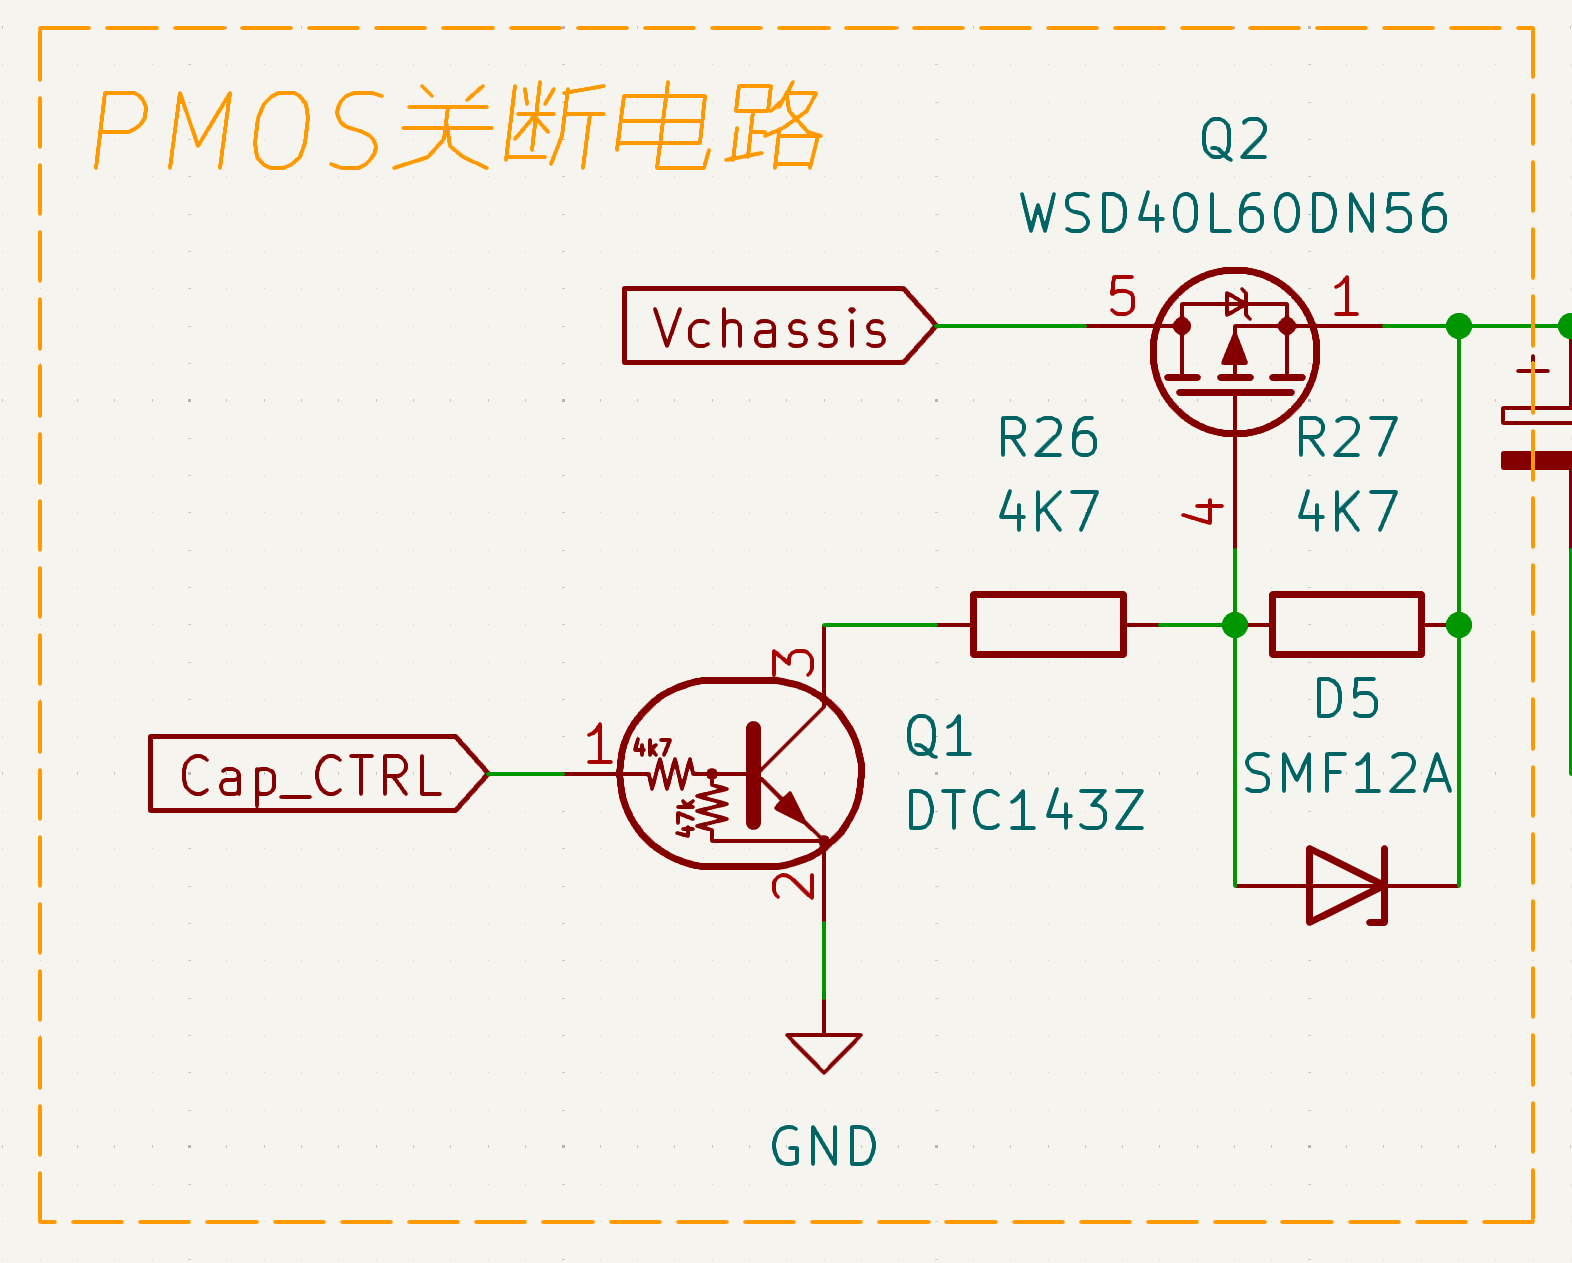
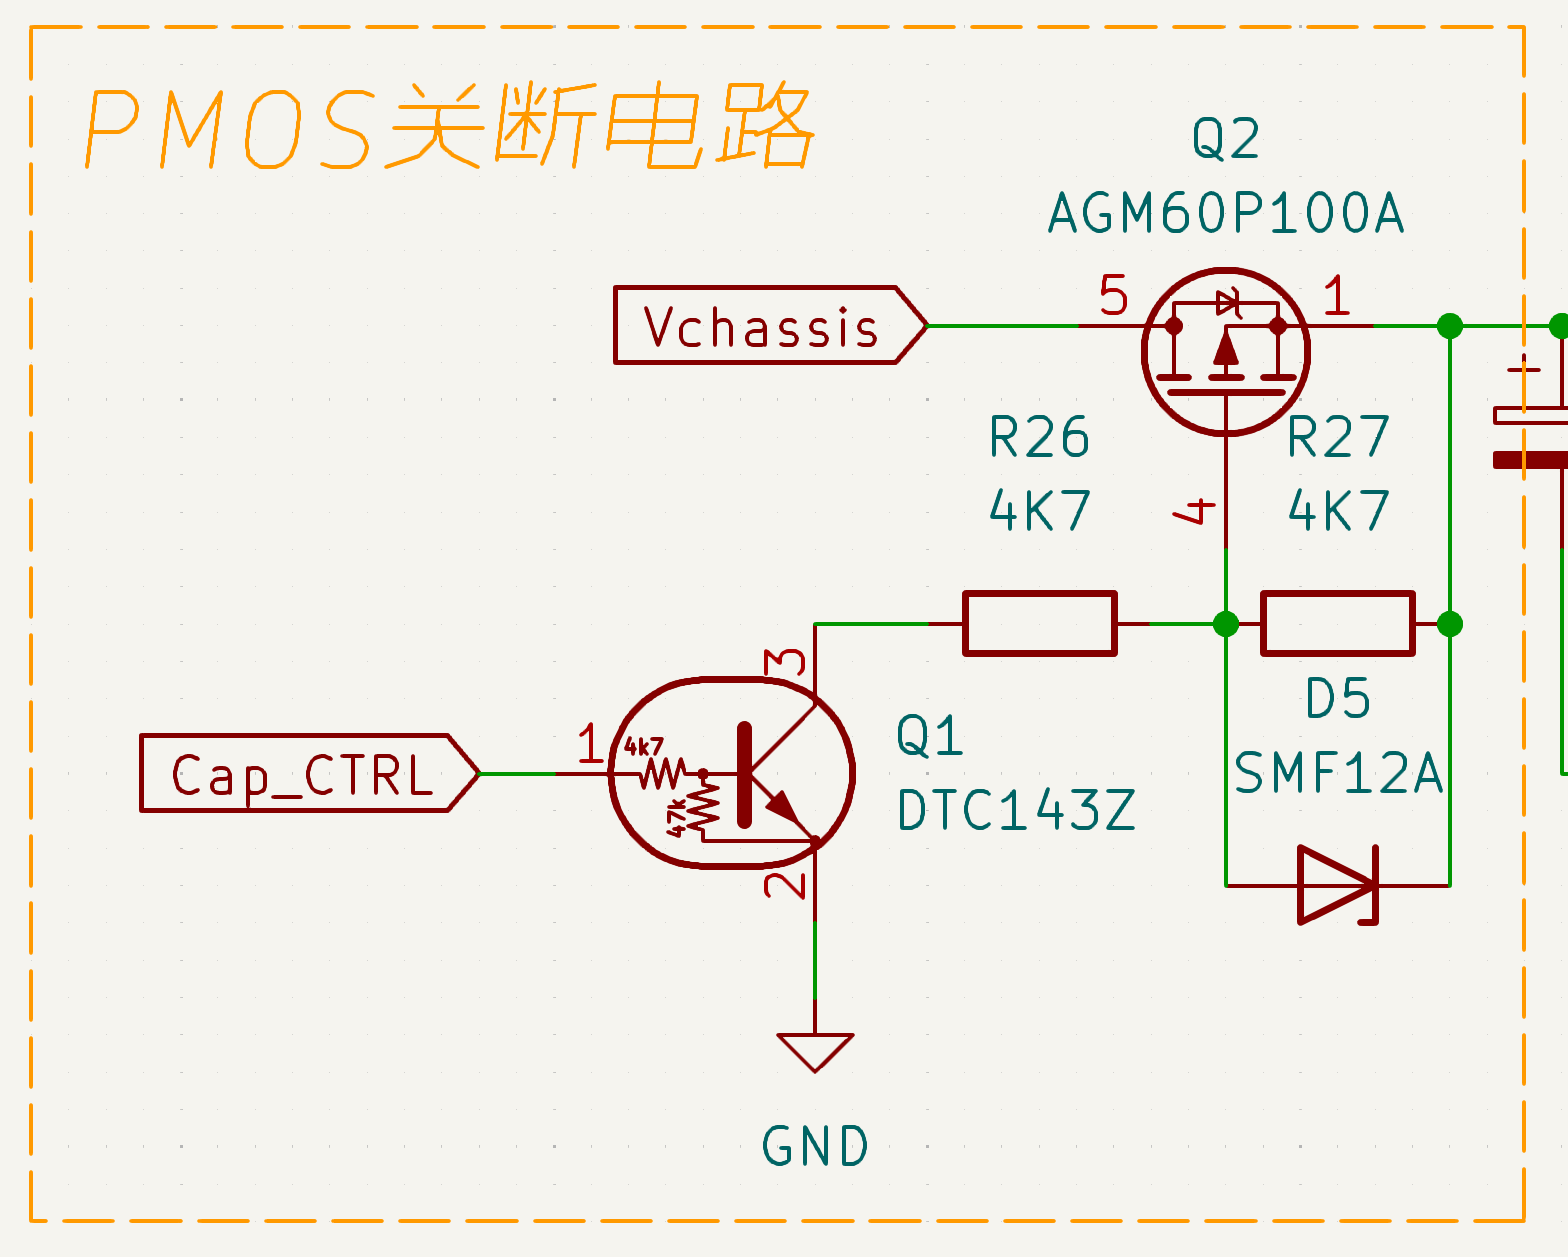
``` feat(.gitignore): 添加.lck文件到忽略列表
feat(/docs): 添加参考文件PDF

fix(README): 更新MOS管型号和相关技术参数

change(/Images): 将所有图片进行压缩

```

diff --git a/README.md b/README.md
@@ -16,8 +16,8 @@
 
 - 主控：STM32G431CBT6
 - 栅极驱动：EG2181
-- 半桥MOS：WSD40120DN56G
-- 关断PMOS：WSD40L60DN56
+- 半桥MOS：IRFH7440TRPBF
+- 关断PMOS：AGM60P100A
 - 电感：106-125磁环22uH
 - 母线电流采样：INA139
 - 电容电流采样：INA181A2（冗余不足，存在风险）
@@ -60,13 +60,13 @@ G4系列单片机还有一个比较方便的功能，内置可调参考电压，
 这个栅极驱动器是高低边驱动信号分离的，这有利于数字控制死区，能够进一步优化死区，减小损耗。比较推荐这种形式的栅极驱动器，固定死区或者是电阻调节死区的就不够方便（虽然说调好之后一般不会变）。
 半桥开关管
 
-半桥开关管选用WSD40120DN56，这个管子是照着CSD18540（拆机三毛钱神管）去选择的，价格不算太贵，性能也足够（主要这MOS是白嫖的样片，真香）。
+半桥开关管选用IRFH7440TRPBF，这个管子是照着CSD18540（拆机三毛钱神管）去选择的，价格不算太贵，性能也足够（主要这MOS是白嫖的样片，真香）。
 
 MOS的选型要考虑栅极驱动的驱动能力，能否在设计的开关频率下将MOS在合理的时间内进行导通与关断至关重要。对于MOS导通上升时间的计算，书本上的公式非常详细但是又很繁杂，当然这是为了能够尽量得到准确的数值用于计算MOS在导通过程中产生的损耗。为了能够快速精简地进行选型，在这里我参考了MicroChip的《AN799：MOSFET驱动器与MOSFET的匹配设计》进行计算。
 
 ![](Images/MOS栅极电荷.png)
 
-驱动电压是10V，MOS的Qg是90nc（根据Vgs-Qg图表得出），期望上升时间是100ns，计算得出峰值驱动电流：90nc / 100ns = 0.9A，粗略考虑寄生参数的影响，我认为将此参数乘1.3~1.5较为稳妥，可得出最小推拉电流1.3A左右的栅极驱动可以将90nc的MOS以100ns左右的上升时间进行导通。
+驱动电压是10V，MOS的Qg是90nc左右（根据Vgs-Qg图表得出），期望上升时间是100ns，计算得出峰值驱动电流：90nc / 100ns = 0.9A，粗略考虑寄生参数的影响，我认为将此参数乘1.3~1.5较为稳妥，可得出最小推拉电流1.3A左右的栅极驱动可以将90nc的MOS以100ns左右的上升时间进行导通。
 
 根据栅极驱动的推电流计算合理的Qg也是同理：100ns * 2A = 200nc，同时考虑寄生参数影响，这个值除1.3~1.5较为稳妥，可得出2A推电流的驱动可以驱动最大150nc左右的MOS以100ns上升时间进行导通。
 
